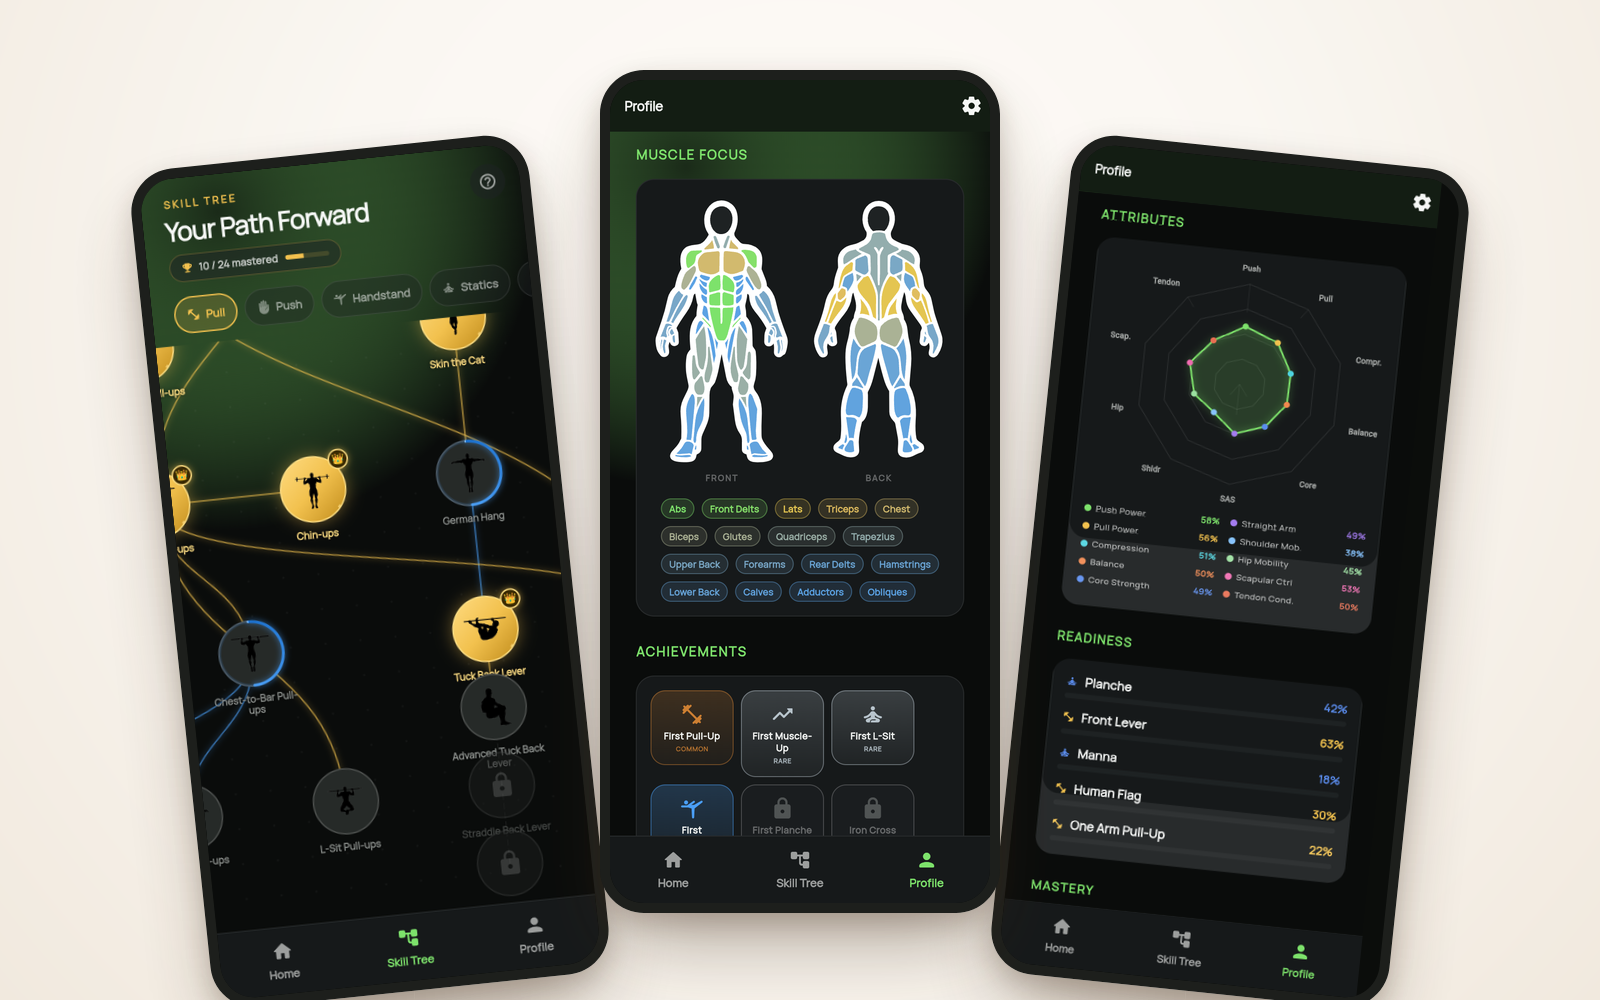
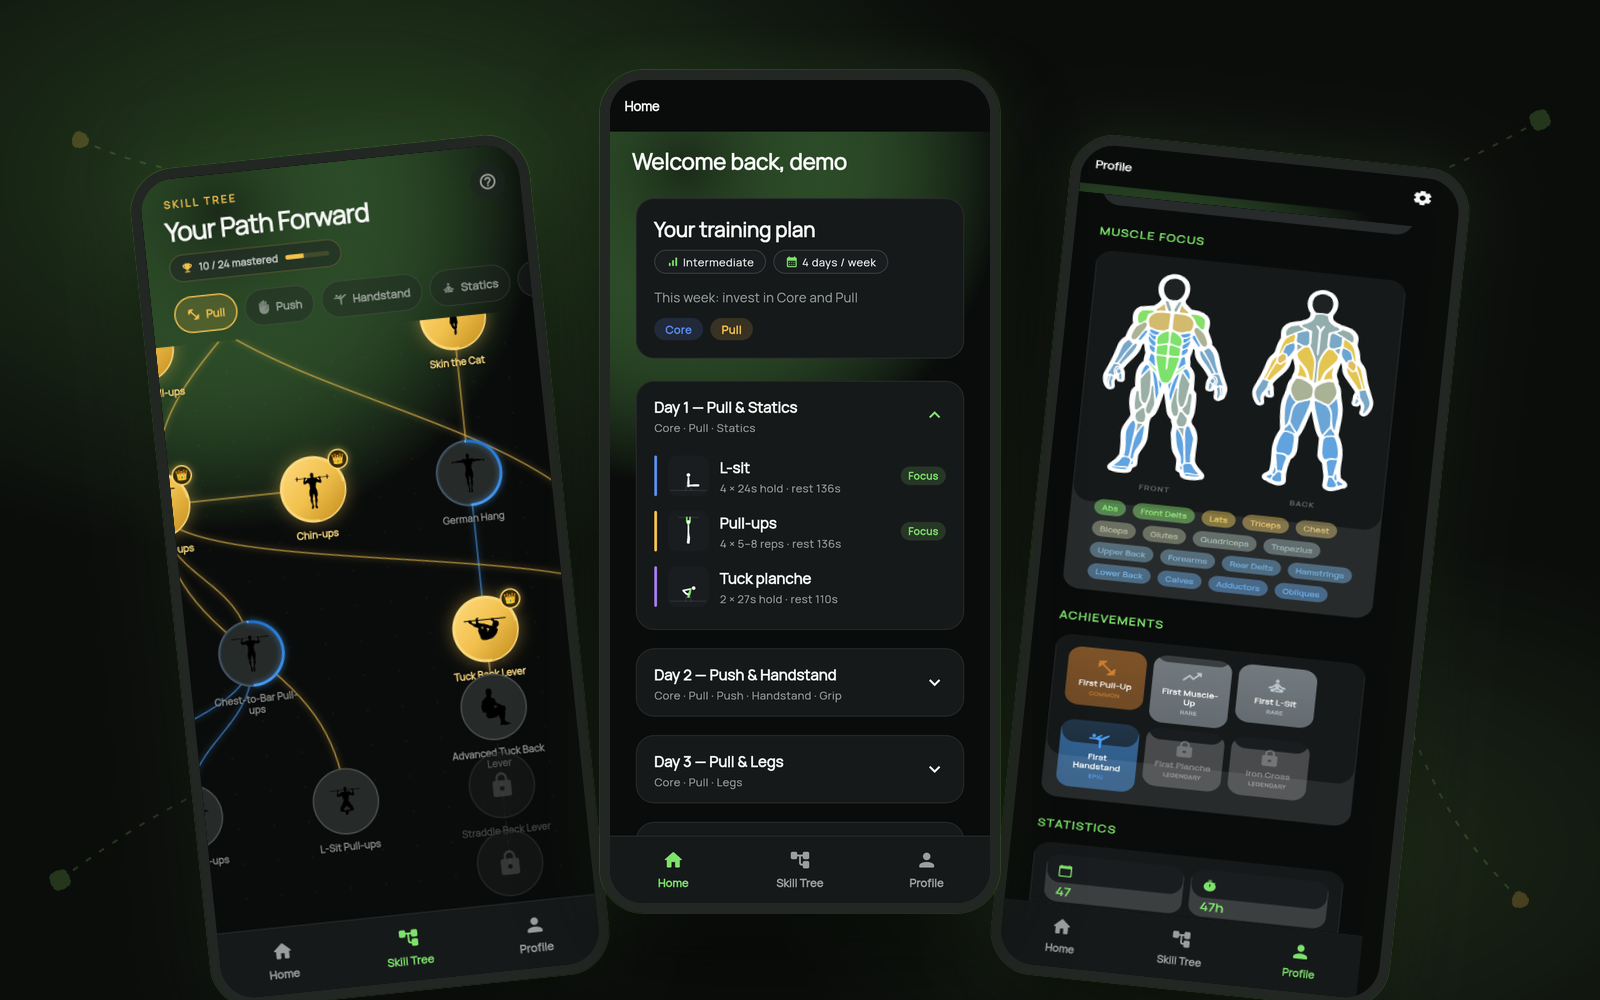
Add a Rodribot screen tour and refresh both thumbnails
The Rodribot card now opens /rodribot, a tour of the bot's flow-selector
menu rendered from its own HTML. Its thumbnail moves onto the menu's
grid, and the kinetree thumbnail shows the feature/firebase-auth build
(home training plan) on the app's dark background.

Claude-Session: https://claude.ai/code/session_01UjNqtB5UNMShmMxJPwFnGW

diff --git a/app/rodribot/page.tsx b/app/rodribot/page.tsx
@@ -1,0 +1,146 @@
+import type { Metadata } from 'next';
+import Link from 'next/link';
+import { ArrowLeft } from 'lucide-react';
+import Footer from '@/components/footer';
+
+export const metadata: Metadata = {
+  title: 'Rodribot | Danilo Leal',
+  description:
+    'A tour of Rodribot, an RPA bot that automates repetitive clerical workflows in Brazil’s PJe judicial system.',
+};
+
+const flow = ['Pick a workflow', 'Open Chrome', 'Log in to PJe', 'Work through each case', 'Log every step'];
+
+const stack = ['Python', 'Playwright', 'pywebview (WebView2)', 'PyInstaller', 'python-dotenv', 'rich'];
+
+const facts = [
+  { value: '20+', label: 'court workflows automated' },
+  { value: '1', label: 'standalone Windows app, no Python needed' },
+  { value: 'PJe2X', label: 'migration it made possible' },
+];
+
+const screens = [
+  {
+    image: '/rodribot/main.png',
+    title: 'One menu for every workflow',
+    text: 'Rodribot opens a small frameless window with the workflows it can run. Picking one starts the automation and the menu closes itself.',
+  },
+  {
+    image: '/rodribot/folder.png',
+    title: 'Workflows grouped by case type',
+    text: '“Gestão de agrupadores” holds 15 workflows that work through PJe’s case groupings: appeals, court costs, pending documents, petitions and more.',
+  },
+  {
+    image: '/rodribot/starting.png',
+    title: 'Starting a run',
+    text: 'The chosen button turns green and the window fades out. Python receives the choice, opens Chrome through Playwright and runs the workflow step by step inside PJe.',
+  },
+  {
+    image: '/rodribot/unavailable.png',
+    title: 'Work in progress stays visible',
+    text: 'Workflows still being built live under “Em desenvolvimento”. Clicking one shakes the button and shows “Indisponível…” instead of running half-finished automation.',
+  },
+];
+
+export default function RodribotPage() {
+  return (
+    <main className="relative min-h-screen bg-[#FAF7F2] overflow-hidden">
+      <div className="absolute inset-0 dot-pattern pointer-events-none" />
+
+      <div className="relative z-10 max-w-5xl mx-auto px-6 lg:px-8 pt-16 pb-24">
+        <Link
+          href="/#work"
+          className="inline-flex items-center gap-2 text-sm text-foreground/60 hover:text-[#D4654A] transition-colors"
+        >
+          <ArrowLeft className="w-4 h-4" />
+          Back to projects
+        </Link>
+
+        <header className="mt-10 mb-16">
+          <span className="text-sm font-medium text-[#D4654A] mb-4 block">Automation (RPA)</span>
+          <h1 className="text-4xl md:text-5xl lg:text-6xl font-bold text-foreground mb-6">Rodribot</h1>
+          <p className="max-w-3xl text-lg text-foreground/60 leading-relaxed">
+            Legal-process automation I built from scratch during my internship. It takes over the repetitive
+            clerical work court staff do every day in PJe, Brazil&apos;s electronic judicial system: triaging cases,
+            issuing citations and notices, filling in forms and moving each case to its next step.
+          </p>
+
+          <div className="mt-8 flex flex-wrap items-center gap-2 text-sm text-foreground/60">
+            {flow.map((step, i) => (
+              <span key={step} className="inline-flex items-center gap-2">
+                <span className="px-3 py-1 rounded-full bg-[#8B7355]/[0.06] border border-[#8B7355]/[0.1] text-foreground/70">
+                  {step}
+                </span>
+                {i < flow.length - 1 && <span className="text-[#D4654A]">→</span>}
+              </span>
+            ))}
+          </div>
+
+          <div className="mt-8 flex flex-wrap gap-2">
+            {stack.map((tech) => (
+              <span
+                key={tech}
+                className="px-2.5 py-1 text-xs font-medium text-foreground/60 bg-[#8B7355]/[0.06] rounded-md border border-[#8B7355]/[0.1]"
+              >
+                {tech}
+              </span>
+            ))}
+          </div>
+
+          <p className="mt-6 max-w-3xl text-sm text-foreground/50">
+            Rodribot is a private, closed-source tool that runs against a real court system, so there is no public
+            demo. Instead, here is its flow-selector menu, in Brazilian Portuguese like the app itself.
+          </p>
+        </header>
+
+        <section className="mb-20 grid grid-cols-1 sm:grid-cols-3 gap-4">
+          {facts.map((fact) => (
+            <div key={fact.label} className="premium-card p-6">
+              <div className="relative z-10">
+                <p className="text-3xl font-bold text-[#D4654A] mb-1">{fact.value}</p>
+                <p className="text-sm text-foreground/60">{fact.label}</p>
+              </div>
+            </div>
+          ))}
+        </section>
+
+        <section className="mb-20 max-w-3xl">
+          <h2 className="text-2xl md:text-3xl font-semibold text-foreground mb-6">How it holds up</h2>
+          <div className="flex flex-col gap-5 text-foreground/60 leading-relaxed">
+            <p>
+              PJe is a heavy web app full of iframes and slow background requests, so the automation can&apos;t just
+              click and hope. Every interaction goes through helpers that wait for the page to settle, rebuild their
+              selectors when a frame reloads and retry before giving up.
+            </p>
+            <p>
+              Operators stay in control: a background thread checks a remote switch, and turning it off closes the
+              browser right away. Every run writes a log, and the whole bot ships as a standalone Windows app built
+              with PyInstaller, so court staff can run it without installing Python.
+            </p>
+          </div>
+        </section>
+
+        <div className="grid grid-cols-1 md:grid-cols-2 gap-x-10 gap-y-16">
+          {screens.map((screen) => (
+            <section key={screen.image}>
+              <div className="premium-card border border-[#8B7355]/[0.1] shadow-xl shadow-[#3D2914]/10 mb-6">
+                <img
+                  src={screen.image}
+                  alt={screen.title}
+                  width={1180}
+                  height={1630}
+                  loading="lazy"
+                  className="w-full h-auto block"
+                />
+              </div>
+              <h2 className="text-xl md:text-2xl font-semibold text-foreground mb-2">{screen.title}</h2>
+              <p className="text-foreground/60 leading-relaxed">{screen.text}</p>
+            </section>
+          ))}
+        </div>
+      </div>
+
+      <Footer />
+    </main>
+  );
+}

diff --git a/data/portfolio.ts b/data/portfolio.ts
@@ -141,6 +141,7 @@ export const projects: Project[] = [
     category: "Automation (RPA)",
     image: "/rodribot.png",
     technologies: ["Python", "Playwright", "pywebview", "PyInstaller"],
+    link: "/rodribot",
     featured: true,
   },
 ];
